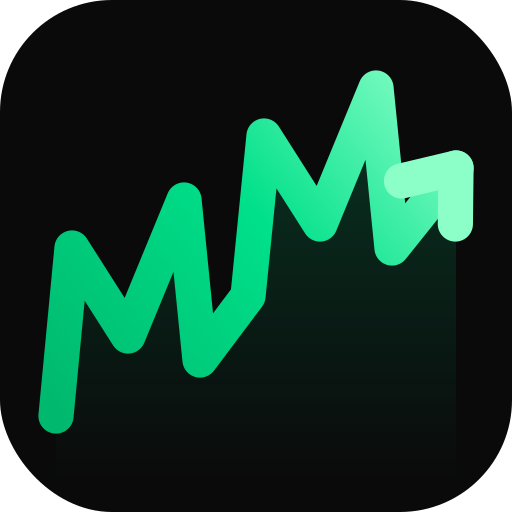
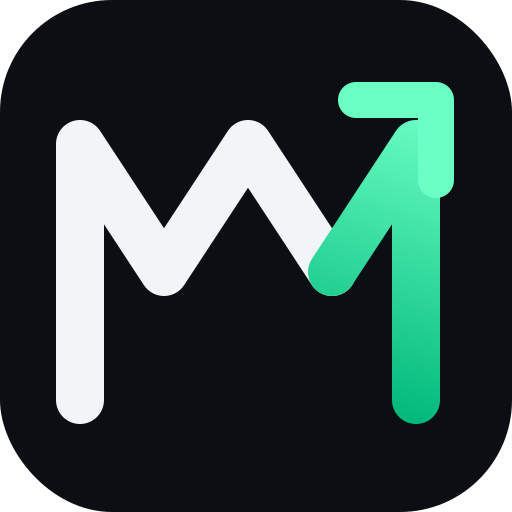
Die neuen Tests (24) wurden erfolgreich durchgeführt und der Frontend-Build mit `CI=true` ist sauber. Der Tooltip wurde sowohl auf Desktop als auch mobil per Screenshot geprüft. In der Vorschau sind derzeit keine Regime-Analysen sichtbar, weshalb eine konkrete Empfehlung für die Auswahl nicht live g
**Tooltip „Min. Trades je Regime“** (ⓘ in der Dynamik-Werkbank; Hover zeigt ihn, Klick lässt ihn offen)
- Wert gilt je Regime, nicht für die gesamte Strategie, mit Zählung aller Trades pro Marktphase und Assets im Trainingsdatensatz.
- Suche nach Kandidaten mit weniger Trades kann zu Ausschluss führen.
- Prüfung je Regime: bestanden ab 40 % des Werts (mindestens 3) und Gewinn auf ungesehenen Daten.
- Finaler Walk-Forward setzt Regime erst ab 5 Verlust-Trades auf „nicht handeln“.
- Beispiel: 4 Regime × 10 ergeben etwa 40 Trades für die Gesamtstrategie.
- Empfehlung: Faustregel 20–30 je Regime, bei wenigen Assets oder kurzem Zeitraum 5–10; aktueller Wert wird angezeigt.

**Name und Logo**
- Entfernt: „(MM)“ aus Browser-Tab, App-Name, und Header.
- Drei neue Logo-Varianten, alle auf dunklem Hintergrund verfügbar:
  - Monogramm (aktuell aktiv) mit grünem Aufwärtspfeil, gut lesbar auch als kleines Tab-Icon.
  - Candle-Optik: grüne und rote Kerzen formen „MM“ – [ansehen](https://ki-trader-refactor-8.preview.emergentagent.com/brand/logo-candles.svg)
  - Bid/Ask: grünes und weißes M leicht versetzt – [ansehen](https://ki-trader-refactor-8.preview.emergentagent.com/brand/logo-bidask.svg)
- Logo wurde im Header ersetzt.
- Auf Wunsch gerne alternative Varianten einstellen.

**Render-Warnungen**
- Doppelte Installation im Frontend wurde durch das Einfügen von `frontend/yarn.lock` ins Repo behoben, was die Installationszeit reduziert und Warnungen beseitigt.
[…]

Changed region(s): [[0.0625, 0.125, 0.9375, 0.8438]]

diff --git a/frontend/src/components/DynamicWorkbenchFields.js b/frontend/src/components/DynamicWorkbenchFields.js
@@ -6,6 +6,7 @@ import { OBJECTIVES, OPT_GROUPS, DAY_OPTIONS } from '../constants/optimizerOptio
 import NumInput from './NumInput';
 import WorkerTargetSelect from './WorkerTargetSelect';
 import { maxIterations, iterationsHint } from '../constants/searchLimits';
+import { MinTradesInfo, minTradesStats } from './DynamicMinTrades';
 
 export const MODE_LABEL = { params: 'Trade- & Strategie-Parameter', combo: 'Neue Regeln + Parameter', discovery: 'Nur neue Regeln' };
 
@@ -62,22 +63,18 @@ export function AssetToggle({ symbols, selected, onChange, disabled }) {
   );
 }
 
-const TF_MIN = { m: 1, h: 60, d: 1440 };
-const tfMinutes = (tf) => { const m = /^(\d+)([mhd])$/.exec(tf || ''); return m ? Number(m[1]) * TF_MIN[m[2]] : 60; };
 
 // Grobe Plausibilität von „Min. Trades“ (gilt JE Regime): Ø Trainings-Kerzen
 // je Regime auf der Auswahl vs. geforderte Trades.
-export function MinTradesHint({ minTrades, nAssets, nRegimes, timeframe, days, trainPct }) {
-  if (!minTrades || !nAssets || !nRegimes || !days) return null;
-  const bars = Math.round(days * 1440 / tfMinutes(timeframe) * nAssets / nRegimes * (trainPct || 100) / 100);
-  const every = bars / minTrades;
-  if (every >= 15) return null;
+export function MinTradesHint({ minTrades, ...ctx }) {
+  const st = minTrades ? minTradesStats({ minTrades, ...ctx }) : null;
+  if (!st || st.every >= 15) return null;
   return (
     <div className="dyn-verdict warn" style={{ marginTop: 6 }} data-testid="dwb-min-trades-hint">
       <b>Min. Trades {minTrades} ist für diese Auswahl sehr hoch</b>
-      <div>Der Wert gilt je Regime. Mit {nAssets} Asset{nAssets === 1 ? '' : 's'} hat ein Regime im Schnitt nur ca. {bars.toLocaleString('de-DE')} Trainings-Kerzen ({timeframe}) –
-        das verlangt einen Trade alle ~{Math.max(every, 0.1).toFixed(1)} Kerzen. Viele Regime erreichen das nicht und die Suche liefert dann nichts Brauchbares.
-        Richtwert: höchstens ca. {Math.max(Math.floor(bars / 30), 1).toLocaleString('de-DE')}.</div>
+      <div>Der Wert gilt je Regime. Mit {ctx.nAssets} Asset{ctx.nAssets === 1 ? '' : 's'} hat ein Regime im Schnitt nur ca. {st.bars.toLocaleString('de-DE')} Trainings-Kerzen ({ctx.timeframe}) –
+        das verlangt einen Trade alle ~{Math.max(st.every, 0.1).toFixed(1)} Kerzen. Viele Regime erreichen das nicht und die Suche liefert dann nichts Brauchbares.
+        Richtwert: höchstens ca. {st.maxSensible.toLocaleString('de-DE')} (empfohlen ca. {st.recommended}).</div>
     </div>
   );
 }
@@ -99,7 +96,7 @@ export function StrategyMapping({ regimes, strategies, mapping, setMapping }) {
 }
 
 /** Einstellungen wie im klassischen Optimizer (Timeframe, Zeitraum, Kapital, Hebel …). */
-export function CoreSettings({ opts, set, tab, mode, source }) {
+export function CoreSettings({ opts, set, tab, mode, source, minTradesCtx }) {
   const maxDays = source?.days || 0;
   const live = (opts.label_basis || 'live') === 'live';
   const dayOpts = DAY_OPTIONS.filter(d => !maxDays || d < maxDays || live);
@@ -141,7 +138,8 @@ export function CoreSettings({ opts, set, tab, mode, source }) {
           {OBJECTIVES.map(o => <option key={o.v} value={o.v}>{o.l}</option>)}
         </select>
       </label>
-      <label className="opt-field">Min. Trades
+      <label className="opt-field">
+        <span>Min. Trades je Regime<MinTradesInfo minTrades={Number(opts.min_trades)} tab={tab} {...(minTradesCtx || {})} /></span>
         <NumInput int min={1} value={opts.min_trades} onCommit={(v) => set('min_trades', v || 1)} data-testid="dwb-min-trades" />
       </label>
       {tab !== 'create' && <>

diff --git a/frontend/src/components/DynamicMinTrades.js b/frontend/src/components/DynamicMinTrades.js
@@ -1,0 +1,50 @@
+import React from 'react';
+import InfoTip from './InfoTip';
+
+// Mindest-Trades der Dynamik-Werkbank: gemeinsame Rechnung für Hinweis + Tooltip.
+// Spiegel der Backend-Regeln: regime_opt/_guarded_score (Training), dynamic_strategy.
+// validation_passed (Prüfung: max(40 %, 3)), dynamic_workbench.MIN_TRADES_SKIP (5).
+const TF_MIN = { m: 1, h: 60, d: 1440 };
+const tfMinutes = (tf) => { const m = /^(\d+)([mhd])$/.exec(tf || ''); return m ? Number(m[1]) * TF_MIN[m[2]] : 60; };
+export const MIN_TRADES_SKIP = 5;
+
+export function minTradesStats({ minTrades, nAssets, nRegimes, timeframe, days, trainPct }) {
+  if (!nAssets || !nRegimes || !days) return null;
+  const bars = Math.round(days * 1440 / tfMinutes(timeframe) * nAssets / nRegimes * (trainPct || 100) / 100);
+  const maxSensible = Math.max(Math.floor(bars / 30), 1);
+  const recommended = Math.min(Math.max(Math.round(bars / 100), 5), 50, maxSensible);
+  return {
+    bars, maxSensible, recommended,
+    every: minTrades ? bars / minTrades : null,
+    validation: Math.max(Math.floor((minTrades || 0) * 0.4), 3),
+  };
+}
+
+export function MinTradesInfo({ minTrades, tab, ...ctx }) {
+  const st = minTradesStats({ minTrades, ...ctx });
+  const val = Math.max(Math.floor((minTrades || 0) * 0.4), 3);
+  return (
+    <InfoTip testId="dwb-min-trades-info" width={400}>
+      <b>Min. Trades gilt JE REGIME</b> – nicht für die ganze Strategie.
+      Gezählt werden alle Trades einer Marktphase <b>über alle gewählten Assets zusammen</b>,
+      nur im Trainings-Teil der Daten.
+      <ul>
+        <li><b>Suche:</b> Kandidaten mit weniger als {minTrades || '–'} Trades im Regime fallen praktisch raus (Score wird gesperrt) – schützt vor Zufallstreffern mit 2–3 Glücks-Trades.</li>
+        <li><b>Prüfung (Walk-Forward je Regime):</b> bestanden ab {val} Trades (40 % des Werts, min. 3) <i>und</i> Gewinn auf den ungesehenen Daten.</li>
+        <li><b>Finaler Walk-Forward:</b> ein Regime wird erst ab {MIN_TRADES_SKIP} Trades mit Verlust als „nicht handeln“ markiert.</li>
+        <li>Beispiel: 4 Regime × Wert 10 → die fertige Strategie braucht insgesamt mindestens ca. 40 Trades.</li>
+      </ul>
+      <div className="info-tip-rec">
+        <b>Empfehlung:</b> höher = belastbarer, aber weniger Regime finden überhaupt eine Strategie; zu niedrig = Overfitting.
+        Faustregel ≥ 20–30 Trades je Regime für verlässliche Aussagen; bei wenigen Assets/kurzem Zeitraum 5–10.
+        {tab === 'create' && ' Beim reinen Erstellen wirkt der Wert nur in der Prüfung.'}
+        {st && (
+          <div style={{ marginTop: 4 }} data-testid="dwb-min-trades-rec">
+            Für deine Auswahl (≈ {st.bars.toLocaleString('de-DE')} Trainings-Kerzen je Regime):
+            {' '}<b>empfohlen ca. {st.recommended}</b>, sinnvoll höchstens ca. {st.maxSensible.toLocaleString('de-DE')}.
+          </div>
+        )}
+      </div>
+    </InfoTip>
+  );
+}

diff --git a/frontend/src/components/InfoTip.js b/frontend/src/components/InfoTip.js
@@ -1,0 +1,47 @@
+import React, { useEffect, useLayoutEffect, useRef, useState } from 'react';
+import { createPortal } from 'react-dom';
+import { Info } from '@phosphor-icons/react';
+import './InfoTip.css';
+
+// Kleines Info-Symbol mit Erklär-Popover (Hover am Desktop, Klick/Tap pinnt).
+// Portal + fixed-Position: wird von scrollenden Modals nicht abgeschnitten.
+export default function InfoTip({ children, testId, width = 360 }) {
+  const [hover, setHover] = useState(false);
+  const [pinned, setPinned] = useState(false);
+  const [pos, setPos] = useState(null);
+  const btnRef = useRef(null);
+  const popRef = useRef(null);
+  const open = hover || pinned;
+
+  useLayoutEffect(() => {
+    if (!open || !btnRef.current) return;
+    const r = btnRef.current.getBoundingClientRect();
+    const w = Math.min(width, window.innerWidth - 16);
+    const left = Math.min(Math.max(r.left - 8, 8), window.innerWidth - w - 8);
+    const below = window.innerHeight - r.bottom > 300 || r.top < 300;
+    setPos(below ? { left, top: r.bottom + 6, width: w } : { left, bottom: window.innerHeight - r.top + 6, width: w });
+  }, [open, width]);
+
+  useEffect(() => {
+    if (!pinned) return undefined;
+    const close = (e) => {
+      if (!btnRef.current?.contains(e.target) && !popRef.current?.contains(e.target)) setPinned(false);
+    };
+    const hide = () => setPinned(false);
+    document.addEventListener('mousedown', close);
+    window.addEventListener('scroll', hide, true);
+    return () => { document.removeEventListener('mousedown', close); window.removeEventListener('scroll', hide, true); };
+  }, [pinned]);
+
+  return (
+    <span className="info-tip" onMouseEnter={() => setHover(true)} onMouseLeave={() => setHover(false)}>
+      <button type="button" ref={btnRef} className="info-tip-btn" aria-label="Erklärung" data-testid={testId}
+        onClick={(e) => { e.preventDefault(); e.stopPropagation(); setPinned(p => !p); }}>
+        <Info size={13} weight="bold" />
+      </button>
+      {open && pos && createPortal(
+        <span className="info-tip-pop" ref={popRef} style={pos} role="tooltip" data-testid={testId && `${testId}-pop`}>{children}</span>,
+        document.body)}
+    </span>
+  );
+}

diff --git a/frontend/src/components/DynamicWorkbench.js b/frontend/src/components/DynamicWorkbench.js
@@ -117,6 +117,11 @@ export default function DynamicWorkbench({ lwOnline, onManageLocal, onContext })
   const symbols = selSyms.length ? selSyms : (defaultSyms.length ? defaultSyms : allSyms);
   const running = job?.status === 'running';
   const jobOnThisTab = job && job.kind === tab;
+  const minTradesCtx = analysis ? {
+    nAssets: symbols.length, nRegimes: regimes.length || 1,
+    timeframe: opts.timeframe || analysis.timeframe, days: Number(opts.days) || analysis.days,
+    trainPct: analysis.settings?.train_pct ?? 100,
+  } : null;
 
   const patchSel = (patch) => setSel(s => ({ ...s, [tab]: { ...s[tab], ...patch } }));
   const setSource = (source) => {
@@ -231,11 +236,9 @@ export default function DynamicWorkbench({ lwOnline, onManageLocal, onContext })
         optimizeSel={cur.regimes} onToggleOptimize={toggleRegime} onFocus={focusPhase} />}
       {tab === 'refine' && dyns.length === 0 && <div className="opt-small" style={{ marginBottom: 8 }}>Noch keine dynamische Strategie aus dem Regime-Lab vorhanden – zuerst „Neu aus Strategien“ oder „Neue Strategie je Regime“ nutzen.</div>}
 
-      <CoreSettings opts={opts} set={set} tab={tab} mode={mode} source={analysis} />
+      <CoreSettings opts={opts} set={set} tab={tab} mode={mode} source={analysis} minTradesCtx={minTradesCtx} />
       {tab !== 'create' && analysis && (
-        <MinTradesHint minTrades={Number(opts.min_trades)} nAssets={symbols.length} nRegimes={regimes.length || 1}
-          timeframe={opts.timeframe || analysis.timeframe} days={Number(opts.days) || analysis.days}
-          trainPct={analysis.settings?.train_pct ?? 100} />
+        <MinTradesHint minTrades={Number(opts.min_trades)} {...minTradesCtx} />
       )}
       {tab !== 'create' && (
         <label className="opt-check" style={{ marginTop: -6 }} title="Runde für Runde weitersuchen, bis du stoppst – nur echte Verbesserungen werden übernommen">

diff --git a/frontend/src/components/Header.js b/frontend/src/components/Header.js
@@ -1,5 +1,5 @@
 import React, { useState, useEffect, useCallback } from 'react';
-import { Clock, Gear, ChartLineUp, Wallet, TrendUp, TrendDown, Lock, LockOpen, Trophy, ClockCounterClockwise, MagicWand, ChartScatter, Drop, BellRinging, Flask, MoonStars, Robot } from '@phosphor-icons/react';
+import { Clock, Gear, Wallet, TrendUp, TrendDown, Lock, LockOpen, Trophy, ClockCounterClockwise, MagicWand, ChartScatter, Drop, BellRinging, Flask, MoonStars, Robot } from '@phosphor-icons/react';
 import { authHeaders } from '../auth';
 import CapitalModal from './CapitalModal';
 import SafeOverlay from './SafeOverlay';
@@ -631,10 +631,10 @@ const Header = ({ sessionActive, onSettingsClick, currentSession, customSessions
     <header className="header" data-testid="main-header">
       <div className="header-left">
         <div className="header-brand">
-          <ChartLineUp size={28} weight="bold" className="brand-icon" />
+          <img src={`${process.env.PUBLIC_URL}/favicon.svg?v=3`} alt="" width={30} height={30} className="brand-logo" data-testid="header-brand-logo" />
           <div className="header-brand-text">
             <div className="header-title-row">
-              <h1 className="header-title" title="MarketMaker (MM)" data-testid="header-brand-title">
+              <h1 className="header-title" title="MarketMaker" data-testid="header-brand-title">
                 <span className="header-title-full">MARKETMAKER</span>
                 <span className="header-title-short" aria-hidden="true">MM</span>
               </h1>

diff --git a/frontend/public/index.html b/frontend/public/index.html
@@ -2,15 +2,15 @@
 <html lang="de">
   <head>
     <meta charset="utf-8" />
-    <link rel="icon" type="image/svg+xml" href="%PUBLIC_URL%/favicon.svg?v=2" />
-    <link rel="alternate icon" href="%PUBLIC_URL%/favicon.ico?v=2" />
+    <link rel="icon" type="image/svg+xml" href="%PUBLIC_URL%/favicon.svg?v=3" />
+    <link rel="alternate icon" href="%PUBLIC_URL%/favicon.ico?v=3" />
     <meta name="viewport" content="width=device-width, initial-scale=1" />
     <meta name="theme-color" content="#0A0A0A" />
     <meta
       name="description"
-      content="MarketMaker (MM) – Multi-Asset Daytrading mit KI Trader"
+      content="MarketMaker – Multi-Asset Daytrading mit KI Trader"
     />
-    <link rel="apple-touch-icon" sizes="180x180" href="%PUBLIC_URL%/apple-touch-icon.png?v=2" />
+    <link rel="apple-touch-icon" sizes="180x180" href="%PUBLIC_URL%/apple-touch-icon.png?v=3" />
     <link rel="manifest" href="%PUBLIC_URL%/manifest.json" />
     
     <!-- Google Fonts -->
@@ -18,7 +18,7 @@
     <link rel="preconnect" href="https://fonts.gstatic.com" crossorigin>
     <link href="https://fonts.googleapis.com/css2?family=Chivo:wght@300;900&family=Manrope:wght@400;500;600;700&family=JetBrains+Mono:wght@400;500;600;700&display=swap" rel="stylesheet">
     
-    <title>MarketMaker (MM)</title>
+    <title>MarketMaker</title>
   </head>
   <body>
     <noscript>You need to enable JavaScript to run this app.</noscript>

diff --git a/frontend/src/components/InfoTip.css b/frontend/src/components/InfoTip.css
@@ -1,0 +1,19 @@
+.info-tip { position: relative; display: inline-flex; vertical-align: middle; margin-left: 4px; }
+.info-tip-btn {
+  display: inline-flex; align-items: center; justify-content: center;
+  width: 17px; height: 17px; padding: 0; border-radius: 50%;
+  border: 1px solid #2E3A46; background: #121820; color: #8FA3B5; cursor: help;
+  transition: color 0.15s ease, border-color 0.15s ease;
+}
+.info-tip-btn:hover, .info-tip-btn:focus-visible { color: #00D68F; border-color: #00D68F; outline: none; }
+.info-tip-pop {
+  position: fixed; z-index: 10000; display: block;
+  max-height: 70vh; overflow-y: auto; padding: 10px 12px; border-radius: 8px;
+  background: #0E141B; border: 1px solid #2A3644; box-shadow: 0 10px 28px rgba(0, 0, 0, 0.55);
+  color: #D5DEE7; font-size: 12px; font-weight: 400; line-height: 1.45; text-transform: none;
+  letter-spacing: 0; white-space: normal; text-align: left;
+}
+.info-tip-pop b { color: #F2F5F7; }
+.info-tip-pop ul { margin: 4px 0 6px; padding-left: 16px; }
+.info-tip-pop li { margin: 2px 0; }
+.info-tip-pop .info-tip-rec { margin-top: 6px; padding-top: 6px; border-top: 1px solid #222D38; }

diff --git a/frontend/src/components/Header.css b/frontend/src/components/Header.css
@@ -35,6 +35,12 @@
   flex-shrink: 0;
 }
 
+.brand-logo {
+  flex-shrink: 0;
+  border-radius: 7px;
+  display: block;
+}
+
 .header-title {
   font-size: 18px;
   font-weight: 900;

diff --git a/scripts/make_icons.py b/scripts/make_icons.py
@@ -1,0 +1,43 @@
+"""Erzeugt alle App-Icons aus einer Logo-Variante in frontend/public/brand/.
+
+Aufruf: python3 scripts/make_icons.py monogram|candles|bidask  (pip install cairosvg pillow)
+"""
+import io
+import re
+import shutil
+import sys
+from pathlib import Path
+
+import cairosvg
+from PIL import Image
+
+PUB = Path(__file__).resolve().parents[1] / "frontend" / "public"
+
+
+def png(svg: bytes, size: int) -> Image.Image:
+    return Image.open(io.BytesIO(cairosvg.svg2png(bytestring=svg, output_width=size, output_height=size)))
+
+
+def maskable(svg: str) -> bytes:
+    # Vollflächiger Hintergrund, Motiv in der 80-%-Sicherheitszone (Android-Masken)
+    inner = re.sub(r"<rect[^>]*rx=\"14\"[^>]*/>", "", svg, count=1)
+    body = inner[inner.index(">") + 1:inner.rindex("</svg>")]
+    return (f'<svg xmlns="http://www.w3.org/2000/svg" viewBox="0 0 64 64"><rect width="64" height="64" fill="#0B0F14"/>'
+            f'<g transform="translate(6.4 6.4) scale(0.8)">{body}</g></svg>').encode()
+
+
+def main(variant: str):
+    src = PUB / "brand" / f"logo-{variant}.svg"
+    svg = src.read_text()
+    shutil.copy(src, PUB / "favicon.svg")
+    b = svg.encode()
+    png(b, 180).save(PUB / "apple-touch-icon.png")
+    png(b, 192).save(PUB / "icon-192.png")
+    png(b, 512).save(PUB / "icon-512.png")
+    png(maskable(svg), 512).save(PUB / "icon-maskable-512.png")
+    png(b, 256).save(PUB / "favicon.ico", sizes=[(16, 16), (32, 32), (48, 48), (64, 64)])
+    print(f"Icons aus {src.name} erzeugt")
+
+
+if __name__ == "__main__":
+    main(sys.argv[1] if len(sys.argv) > 1 else "monogram")

diff --git a/backend/tests/test_improvements_0310.py b/backend/tests/test_improvements_0310.py
@@ -246,3 +246,28 @@ def test_copilot_context_block_wires_dynamic_context():
     assert "dynamic_job_id: wbCtxRef.current.job_id" in opt
     bt = (ROOT / "frontend/src/components/Backtester.js").read_text()
     assert "dynamic_ids: selStrats.filter" in bt
+
+
+# ---------------- 03.10 (3): Min-Trades-Tooltip, Branding, Deploy ----------------
+def test_min_trades_tooltip_mirrors_backend_rules():
+    from services import dynamic_workbench as wbm
+    js = (ROOT / "frontend/src/components/DynamicMinTrades.js").read_text()
+    assert f"MIN_TRADES_SKIP = {wbm.MIN_TRADES_SKIP}" in js
+    assert "Math.max(Math.floor((minTrades || 0) * 0.4), 3)" in js       # == dynamic_strategy min_val
+    src = (ROOT / "backend/services/regime_opt.py").read_text()
+    assert "min_val = max(int(min_trades * 0.4), 3)" in src
+
+
+def test_branding_without_mm_suffix_and_icons_present():
+    pub = ROOT / "frontend/public"
+    assert "(MM)" not in (pub / "index.html").read_text()
+    assert "(MM)" not in (pub / "manifest.json").read_text()
+    assert "(MM)" not in (ROOT / "frontend/src/components/Header.js").read_text()
+    for f in ("favicon.svg", "favicon.ico", "apple-touch-icon.png", "icon-192.png", "icon-512.png",
+              "icon-maskable-512.png", "brand/logo-monogram.svg", "brand/logo-candles.svg", "brand/logo-bidask.svg"):
+        assert (pub / f).exists(), f
+
+
+def test_frontend_yarn_lock_committed():
+    gi = (ROOT / ".gitignore").read_text().splitlines()
+    assert "frontend/yarn.lock" not in gi and (ROOT / "frontend/yarn.lock").exists()

diff --git a/memory/PRD.md b/memory/PRD.md
@@ -256,3 +256,8 @@ Backtester · Strategie-Optimizer · Regime-Lab · KI-Trader-Lab · Nacht-Serie)
   und Lauf/Ergebnis (inkl. Zusatz-Tests). Optimizer/Backtester senden workbench, dynamic_job_id, dynamic_ids.
   Vorher: nur 1 Zeile je dyn. Strategie + veraltete Legacy-Dynamik-Einstellungen. E2E mit echtem LLM geprüft.
   Backlog: Copilot-Vorschläge (proposal) für die Werkbank-Einstellungen (heute noch Legacy-Schema).
+- 03.10.2026 (3): Min.-Trades-Tooltip (InfoTip.js generisch, Portal; DynamicMinTrades.js mit
+  minTradesStats + Empfehlung je Auswahl, Spiegel der Backend-Regeln). Name ohne „(MM)“. Neues Logo
+  (Monogramm aktiv; Varianten candles/bidask in public/brand, Wechsel via scripts/make_icons.py), Header nutzt Logo.
+  Deploy: frontend/yarn.lock wird committet (Render: kein npm-Doppel-Install, reproduzierbar).
+  „No open ports detected“ bewusst gelassen (alter Render-Container läuft weiter bis Bootstrap fertig = kein Scan-Ausfall).

diff --git a/frontend/public/brand/README.md b/frontend/public/brand/README.md
@@ -1,0 +1,8 @@
+# Logo-Varianten (MarketMaker)
+
+- `logo-monogram.svg` – MM-Monogramm mit Aufwärtspfeil (aktiv)
+- `logo-candles.svg`  – Candle-Optik (grüne/rote Kerzen bilden „MM“)
+- `logo-bidask.svg`   – Bid/Ask: grünes + weißes M versetzt
+
+Aktive Variante = `public/favicon.svg` (+ PNG/ICO). Wechsel: `python3 scripts/make_icons.py <variante>`
+(benötigt `pip install cairosvg pillow`), erzeugt favicon.svg/.ico, apple-touch-icon, icon-192/512, maskable.
